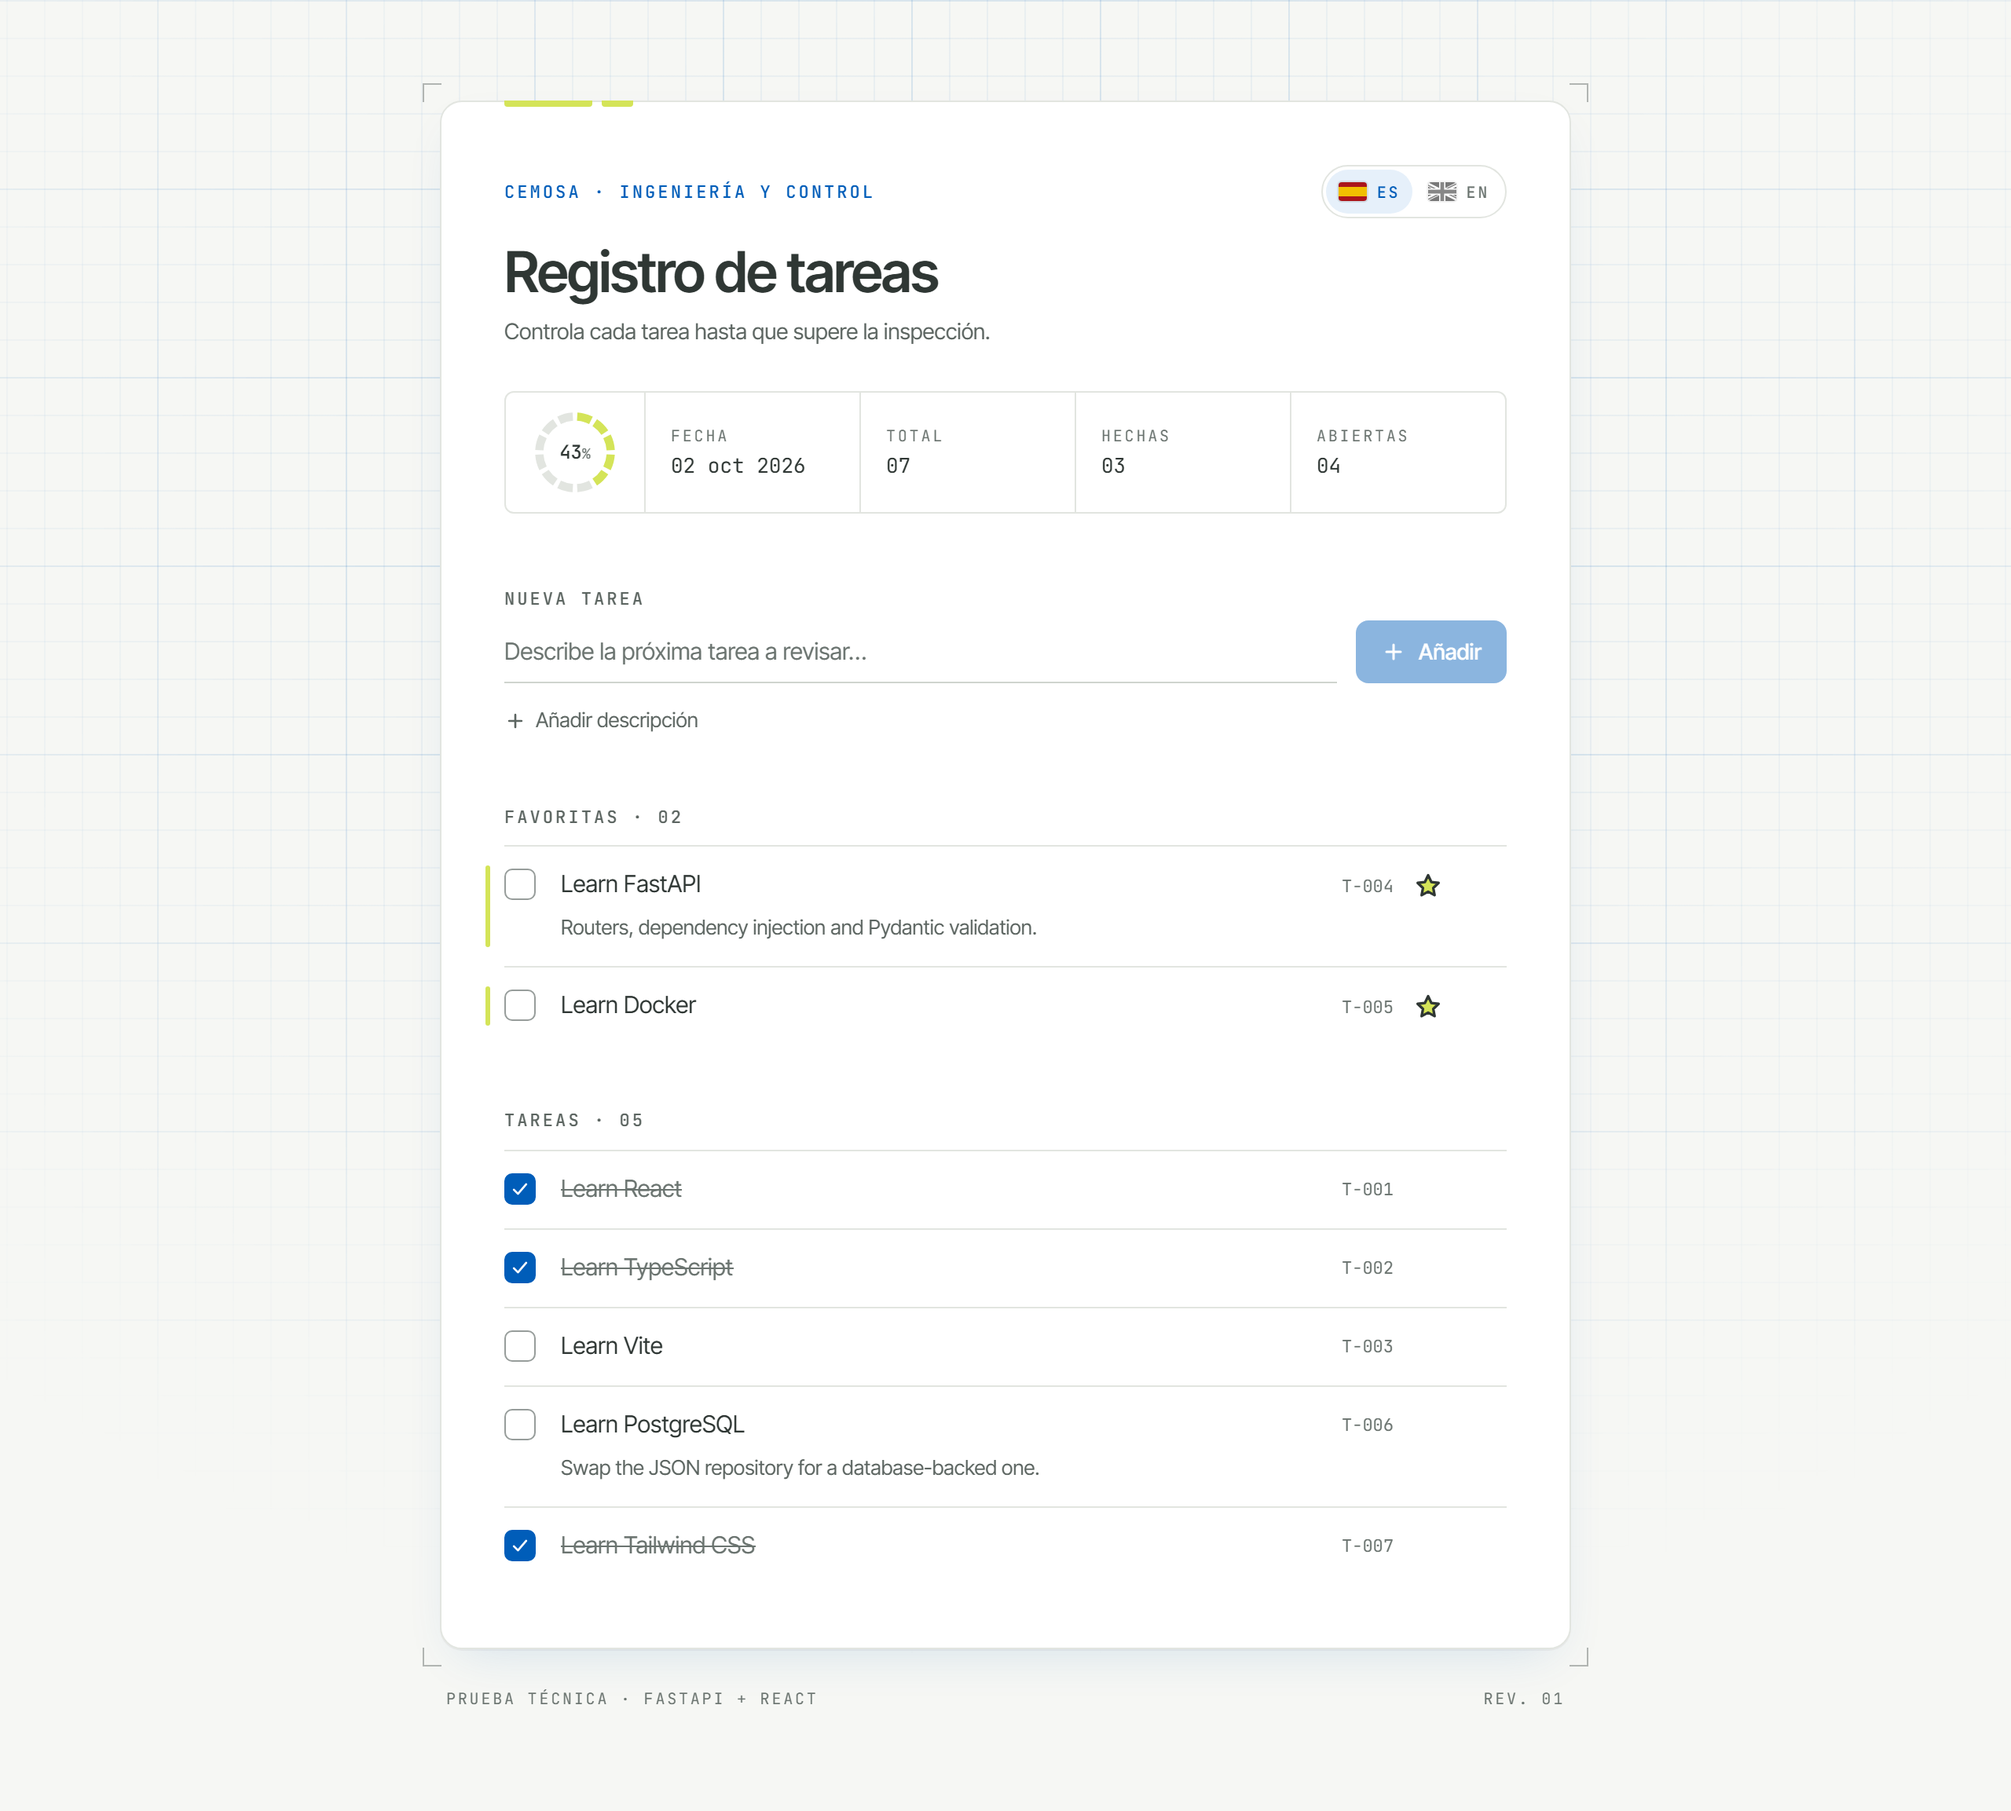
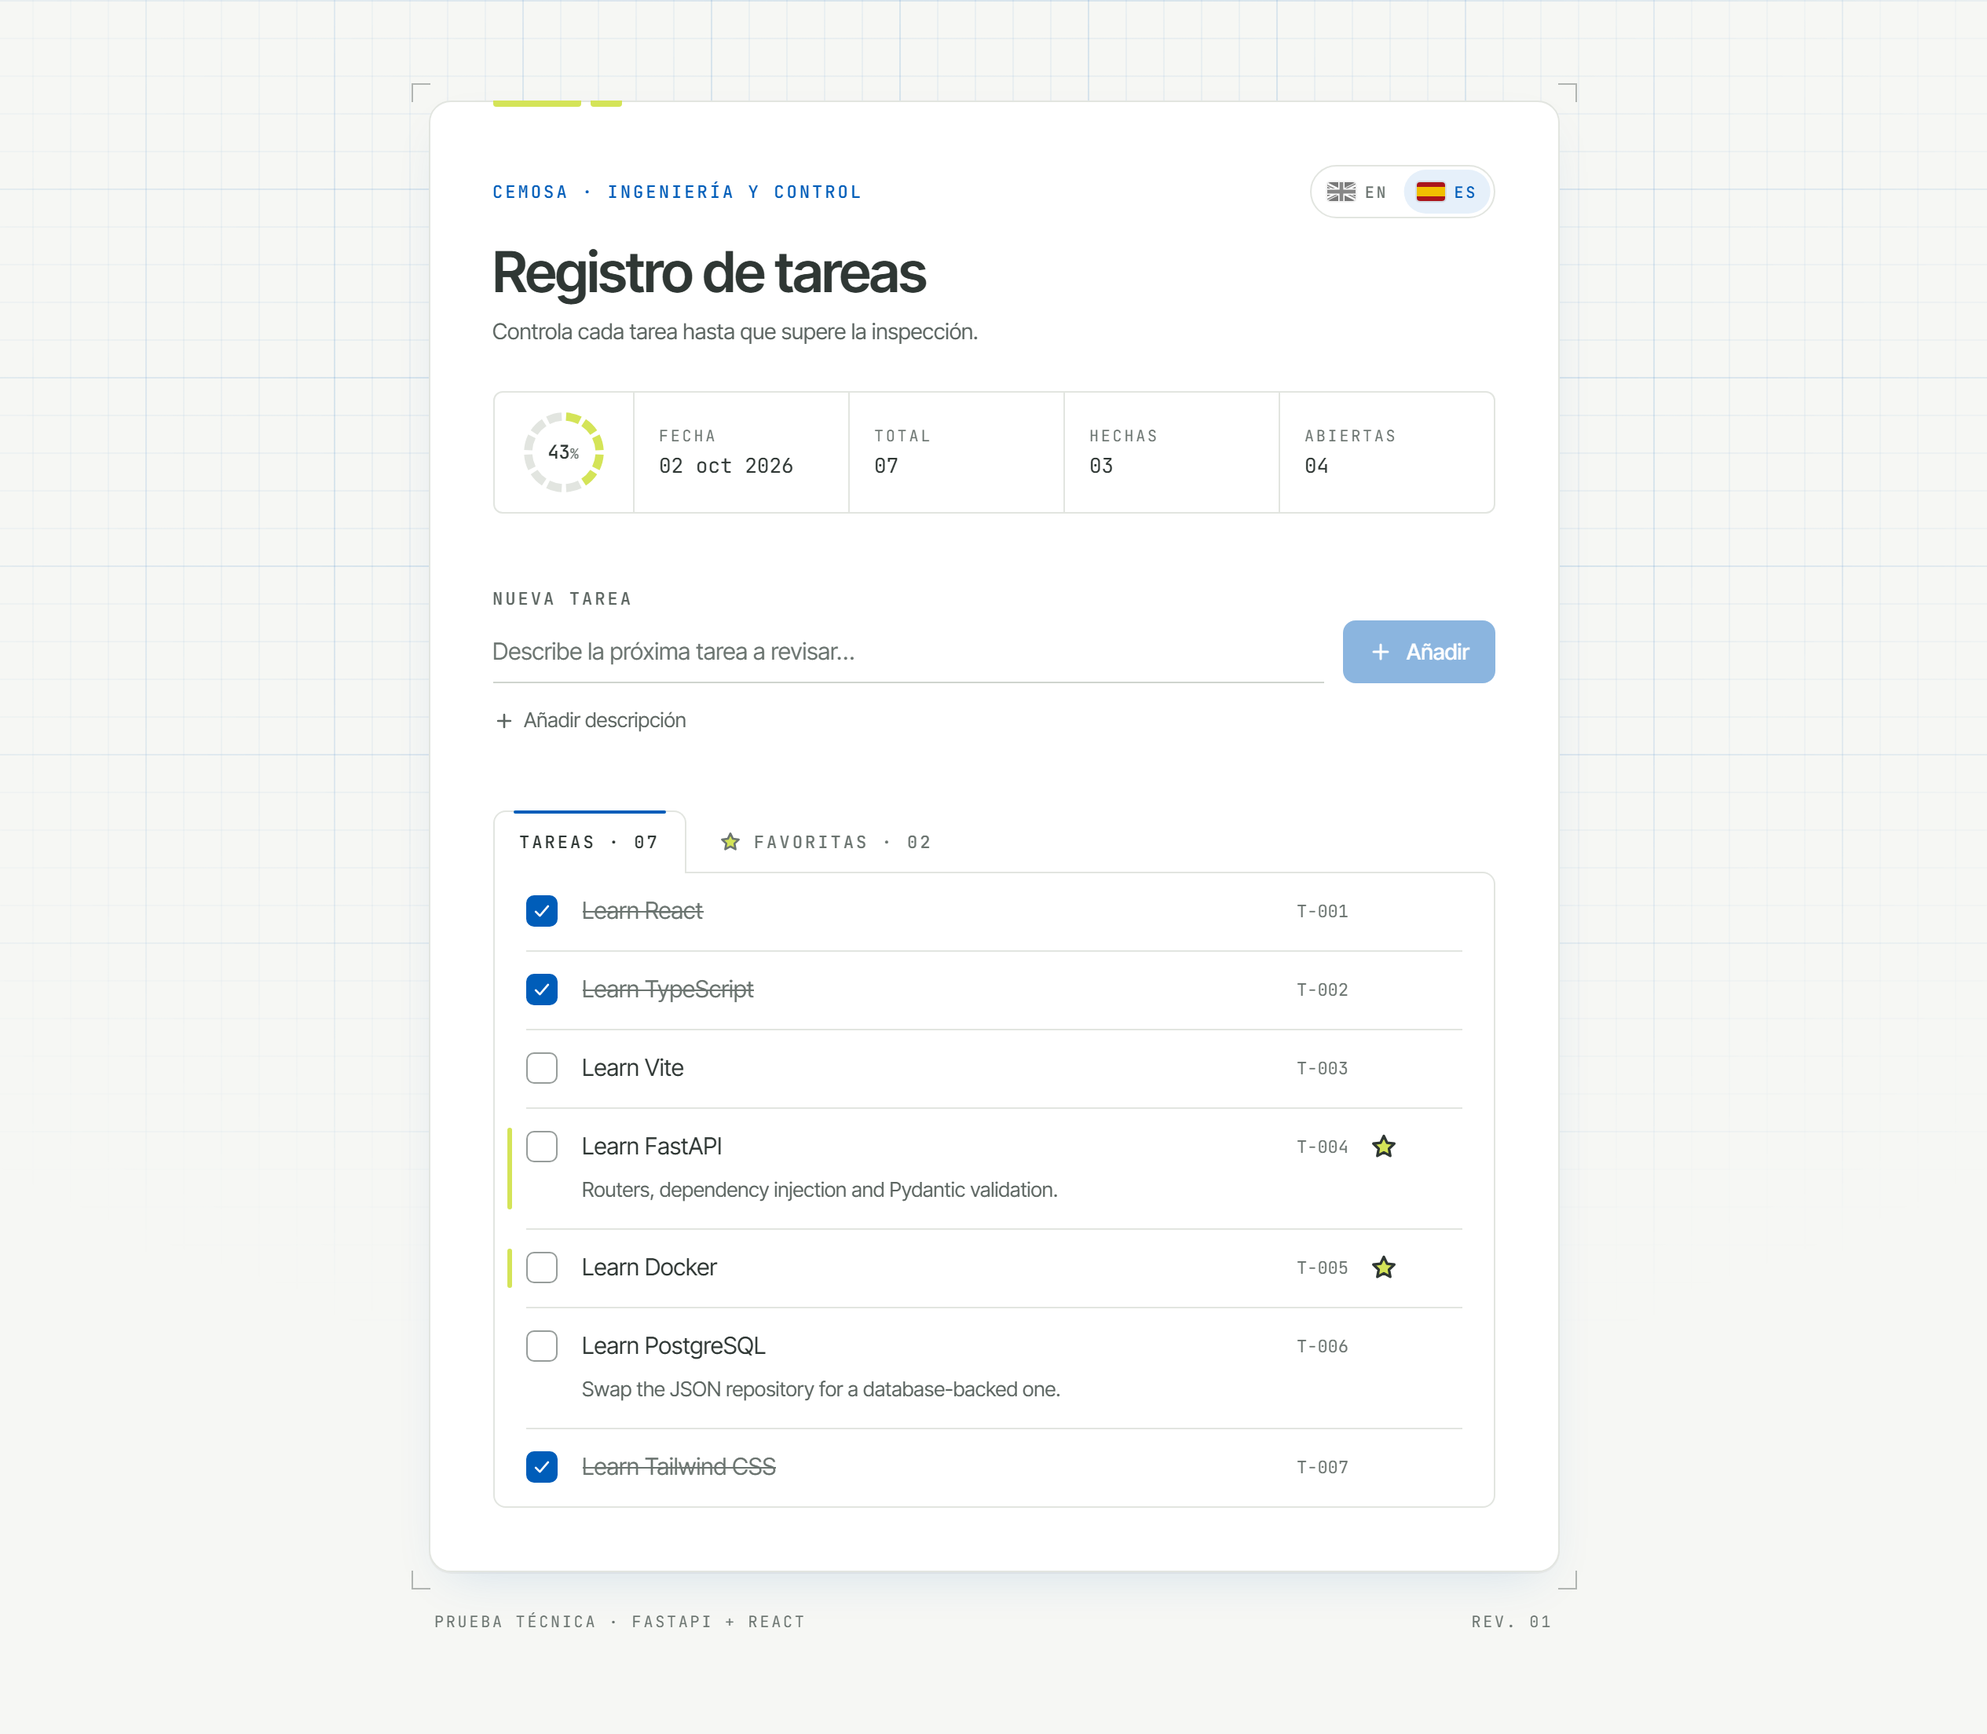
docs: update screenshots with the task tabs

diff --git a/README.es.md b/README.es.md
@@ -8,9 +8,9 @@ control de calidad. Cubre todas las tareas de [`INSTRUCTIONS.md`](INSTRUCTIONS.m
 bilingüe (español / inglés) y tests automáticos en ambas partes.
 
 <p align="center">
-  <img src="docs/screenshots/desktop-es.png" alt="Vista de escritorio en español: cajetín con anillo de progreso, sección de favoritas y lista de tareas" width="68%">
+  <img src="docs/screenshots/desktop-es.png" alt="Vista de escritorio en español: cajetín con anillo de progreso y pestaña Tareas, con las favoritas marcadas con la estrella" width="68%">
   &nbsp;
-  <img src="docs/screenshots/mobile-en.png" alt="Vista móvil en inglés" width="24%">
+  <img src="docs/screenshots/mobile-en.png" alt="Vista móvil en inglés con la pestaña Favoritas seleccionada" width="24%">
 </p>
 
 ## Funcionalidades

diff --git a/README.md b/README.md
@@ -8,9 +8,9 @@ control. It covers every task in [`INSTRUCTIONS.md`](INSTRUCTIONS.md), with a bi
 (Spanish / English) and automated tests on both sides.
 
 <p align="center">
-  <img src="docs/screenshots/desktop-es.png" alt="Desktop view in Spanish: title block with progress ring, favourites section and task list" width="68%">
+  <img src="docs/screenshots/desktop-es.png" alt="Desktop view in Spanish: title block with progress ring and the Tasks tab, with favourites starred in the list" width="68%">
   &nbsp;
-  <img src="docs/screenshots/mobile-en.png" alt="Mobile view in English" width="24%">
+  <img src="docs/screenshots/mobile-en.png" alt="Mobile view in English with the Favourites tab selected" width="24%">
 </p>
 
 ## Features
